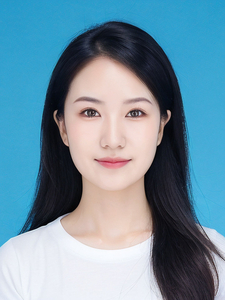
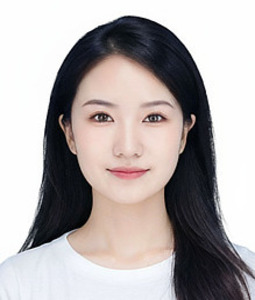
1002

diff --git a/src/pages/People.js b/src/pages/People.js
@@ -130,28 +130,6 @@ const People = () => (
         </ul>
       </section>
       <section className="intro">
-        <Link to="/resume_pengming" className="logo">
-          <img src={`${PUBLIC_URL}/images/PengMing.jpg`} alt="" />
-        </Link>
-        <header>
-          <h2>Ming Peng (彭名)</h2>
-          <h3>Research Assistant</h3>
-        </header>
-        <ul className="actions">
-          <li>
-            {!window.location.pathname.includes('/resume_pengming') ? (
-              <Link to="/resume_pengming" className="button">
-                Learn More
-              </Link>
-            ) : (
-              <Link to="/resume_pengming" className="button">
-                About Me
-              </Link>
-            )}
-          </li>
-        </ul>
-      </section>
-      <section className="intro">
         <Link to="/resume_laiwenkai" className="logo">
           <img src={`${PUBLIC_URL}/images/LaiWenkai.jpg`} alt="" />
         </Link>
@@ -167,28 +145,6 @@ const People = () => (
               </Link>
             ) : (
               <Link to="/resume_laiwenkai" className="button">
-                About Me
-              </Link>
-            )}
-          </li>
-        </ul>
-      </section>
-      <section className="intro">
-        <Link to="/resume_huangzhanpeng" className="logo">
-          <img src={`${PUBLIC_URL}/images/HuangZhanpeng.jpg`} alt="" />
-        </Link>
-        <header>
-          <h2>Zhanpeng Huang (黄展鹏)</h2>
-          <h3>Research Assistant</h3>
-        </header>
-        <ul className="actions">
-          <li>
-            {!window.location.pathname.includes('/resume_huangzhanpeng') ? (
-              <Link to="/resume_huangzhanpeng" className="button">
-                Learn More
-              </Link>
-            ) : (
-              <Link to="/resume_huangzhanpeng" className="button">
                 About Me
               </Link>
             )}

diff --git a/src/data/publications.md b/src/data/publications.md
@@ -1,8 +1,8 @@
 
 ## 2025
-1. Yiying Liang; Xuchen Wang; Jing Shu; Huayu Zhang; Puchen Zhu; Xianfeng Xia; **Xin Ma***; Design of a Soft Automatic Anchoring System for Enhanced Mobility and Stability in Colonoscopy Robots, IEEE/RSJ International Conference on Intelligent Robots and Systems (IROS), 2025, Accepted. 
+1. Yiying Liang; Xuchen Wang*; Jing Shu; Huayu Zhang; Puchen Zhu; Xianfeng Xia; **Xin Ma**; Design of a Soft Automatic Anchoring System for Enhanced Mobility and Stability in Colonoscopy Robots, IEEE/RSJ International Conference on Intelligent Robots and Systems (IROS), 2025, Accepted. 
 2. Puchen Zhu; Wenkai Lai; **Xin Ma***; Xuchen Wang; Jianshu Zhou;  Shing Shin Cheng; K. W. Samuel Au; A Spatial Position-Based Visual Servoing Obstacle-Avoidable Shape Control Framework for an 11-DOF Hybrid Continuum Robot, IEEE/RSJ International Conference on Intelligent Robots and Systems (IROS),2025,Accepted.
-3. **Xin Ma***; Zhengtai Xie; Mei Liu; Discretized Data-Driven Neural Dynamics for Model-Adaptive Kinematic Control of Redundant Manipulators, IEEE Transactions on Automation Science and  Engineering (T-ASE), 2025, Accepted.
+3. **Xin Ma**; Zhengtai Xie; Mei Liu*; Discretized Data-Driven Neural Dynamics for Model-Adaptive Kinematic Control of Redundant Manipulators, IEEE Transactions on Automation Science and  Engineering (T-ASE), 2025, Accepted.
 4. Jinfei Hu; Zelong Chen; Yinjie Lin; Zheng Chen; Bin Yao; **Xin Ma***; On the Fully Decoupled Rigid-body Dynamics Identification of Serial Industrial Robots, _IEEE Transactions on Robotics (T-RO)_, 2025, Accepted.  
 5. Xuchen Wang; Yiying Liang; Shengzhi Wang; Jing Shu; Puchen Zhu; Wenkai Lai; Jiajun An; Jianshu Zhou; **Xin Ma***; A Dexterity and Exploration Enhanced Quadruped Robot with a Multi-Functional Retractable Variable-Stiffness Manipulator, _IEEE/ASME Transactions on Mechatronics (T-MECH)_, 2025, Accepted. 
 6. Jianshu Zhou; Junda Huang; Boyuan Liang; Xiang Zhang; **Xin Ma**; Masayoshi Tomizuka\*; Prismatic-Bending Transformable (PBT) Joint for a Modular, Foldable Manipulator with Enhanced Reachability and Dexterity, _IEEE/ASME Transactions on Mechatronics (T-MECH)_, 2025, Accepted.  
